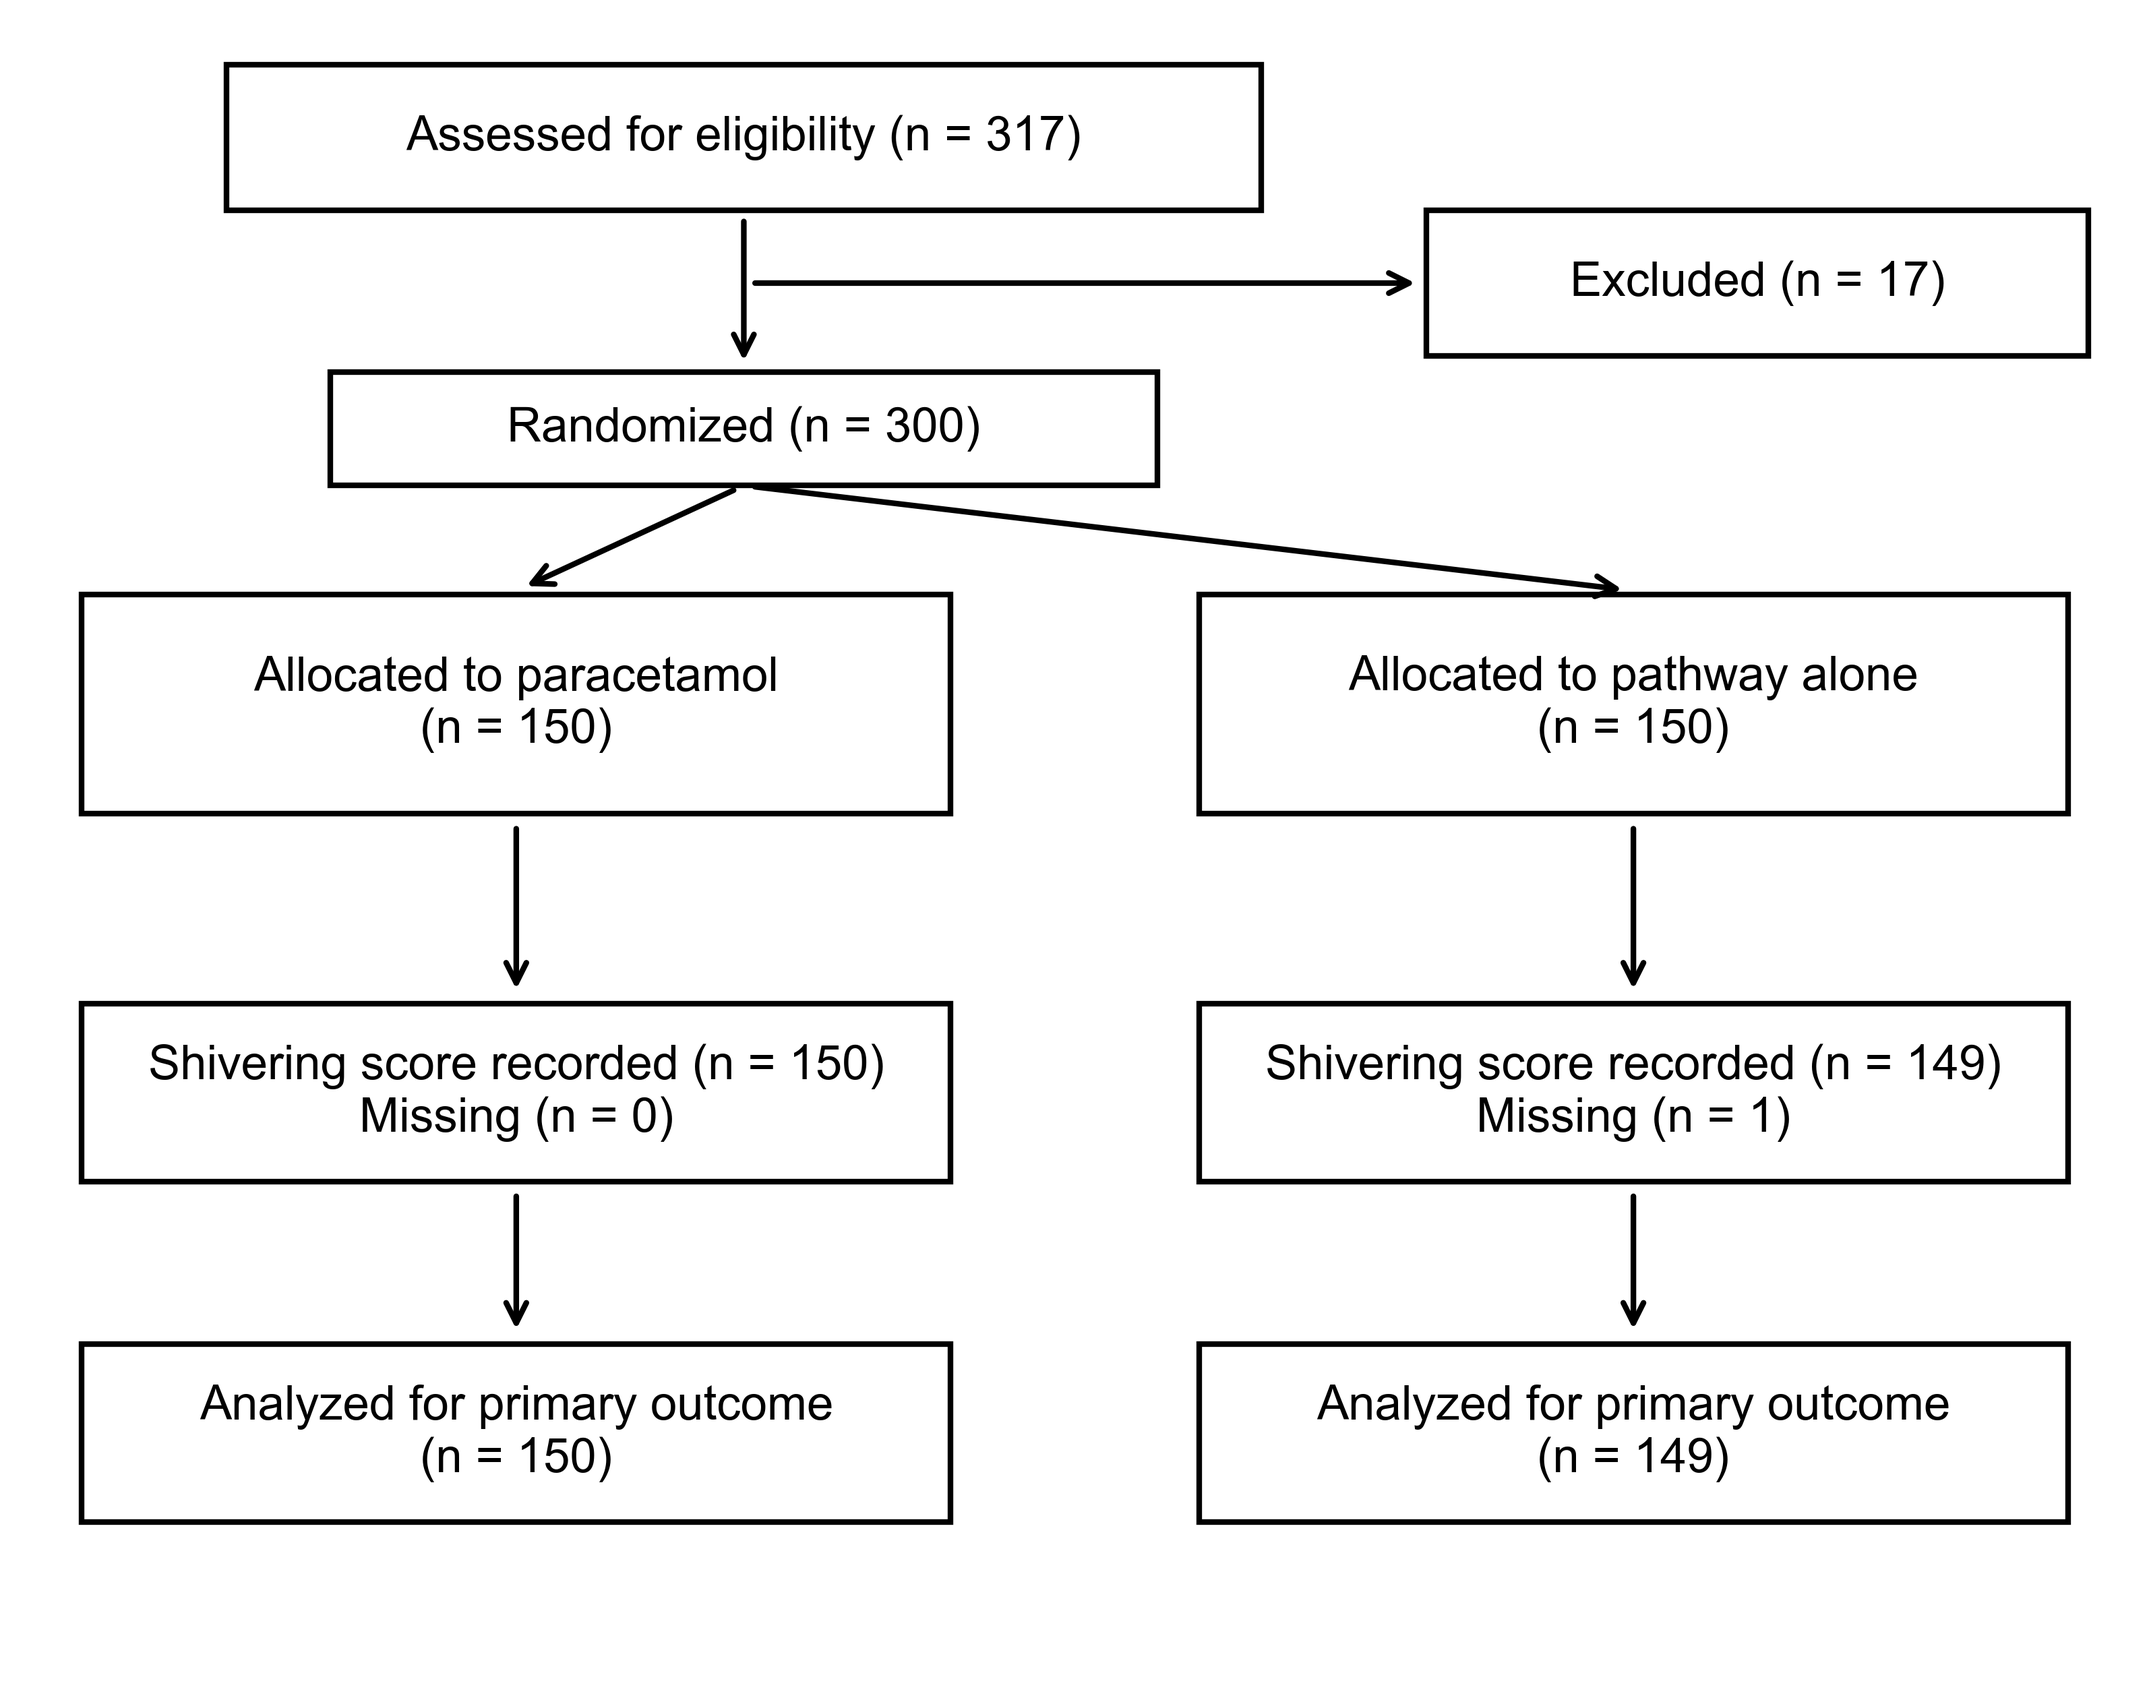
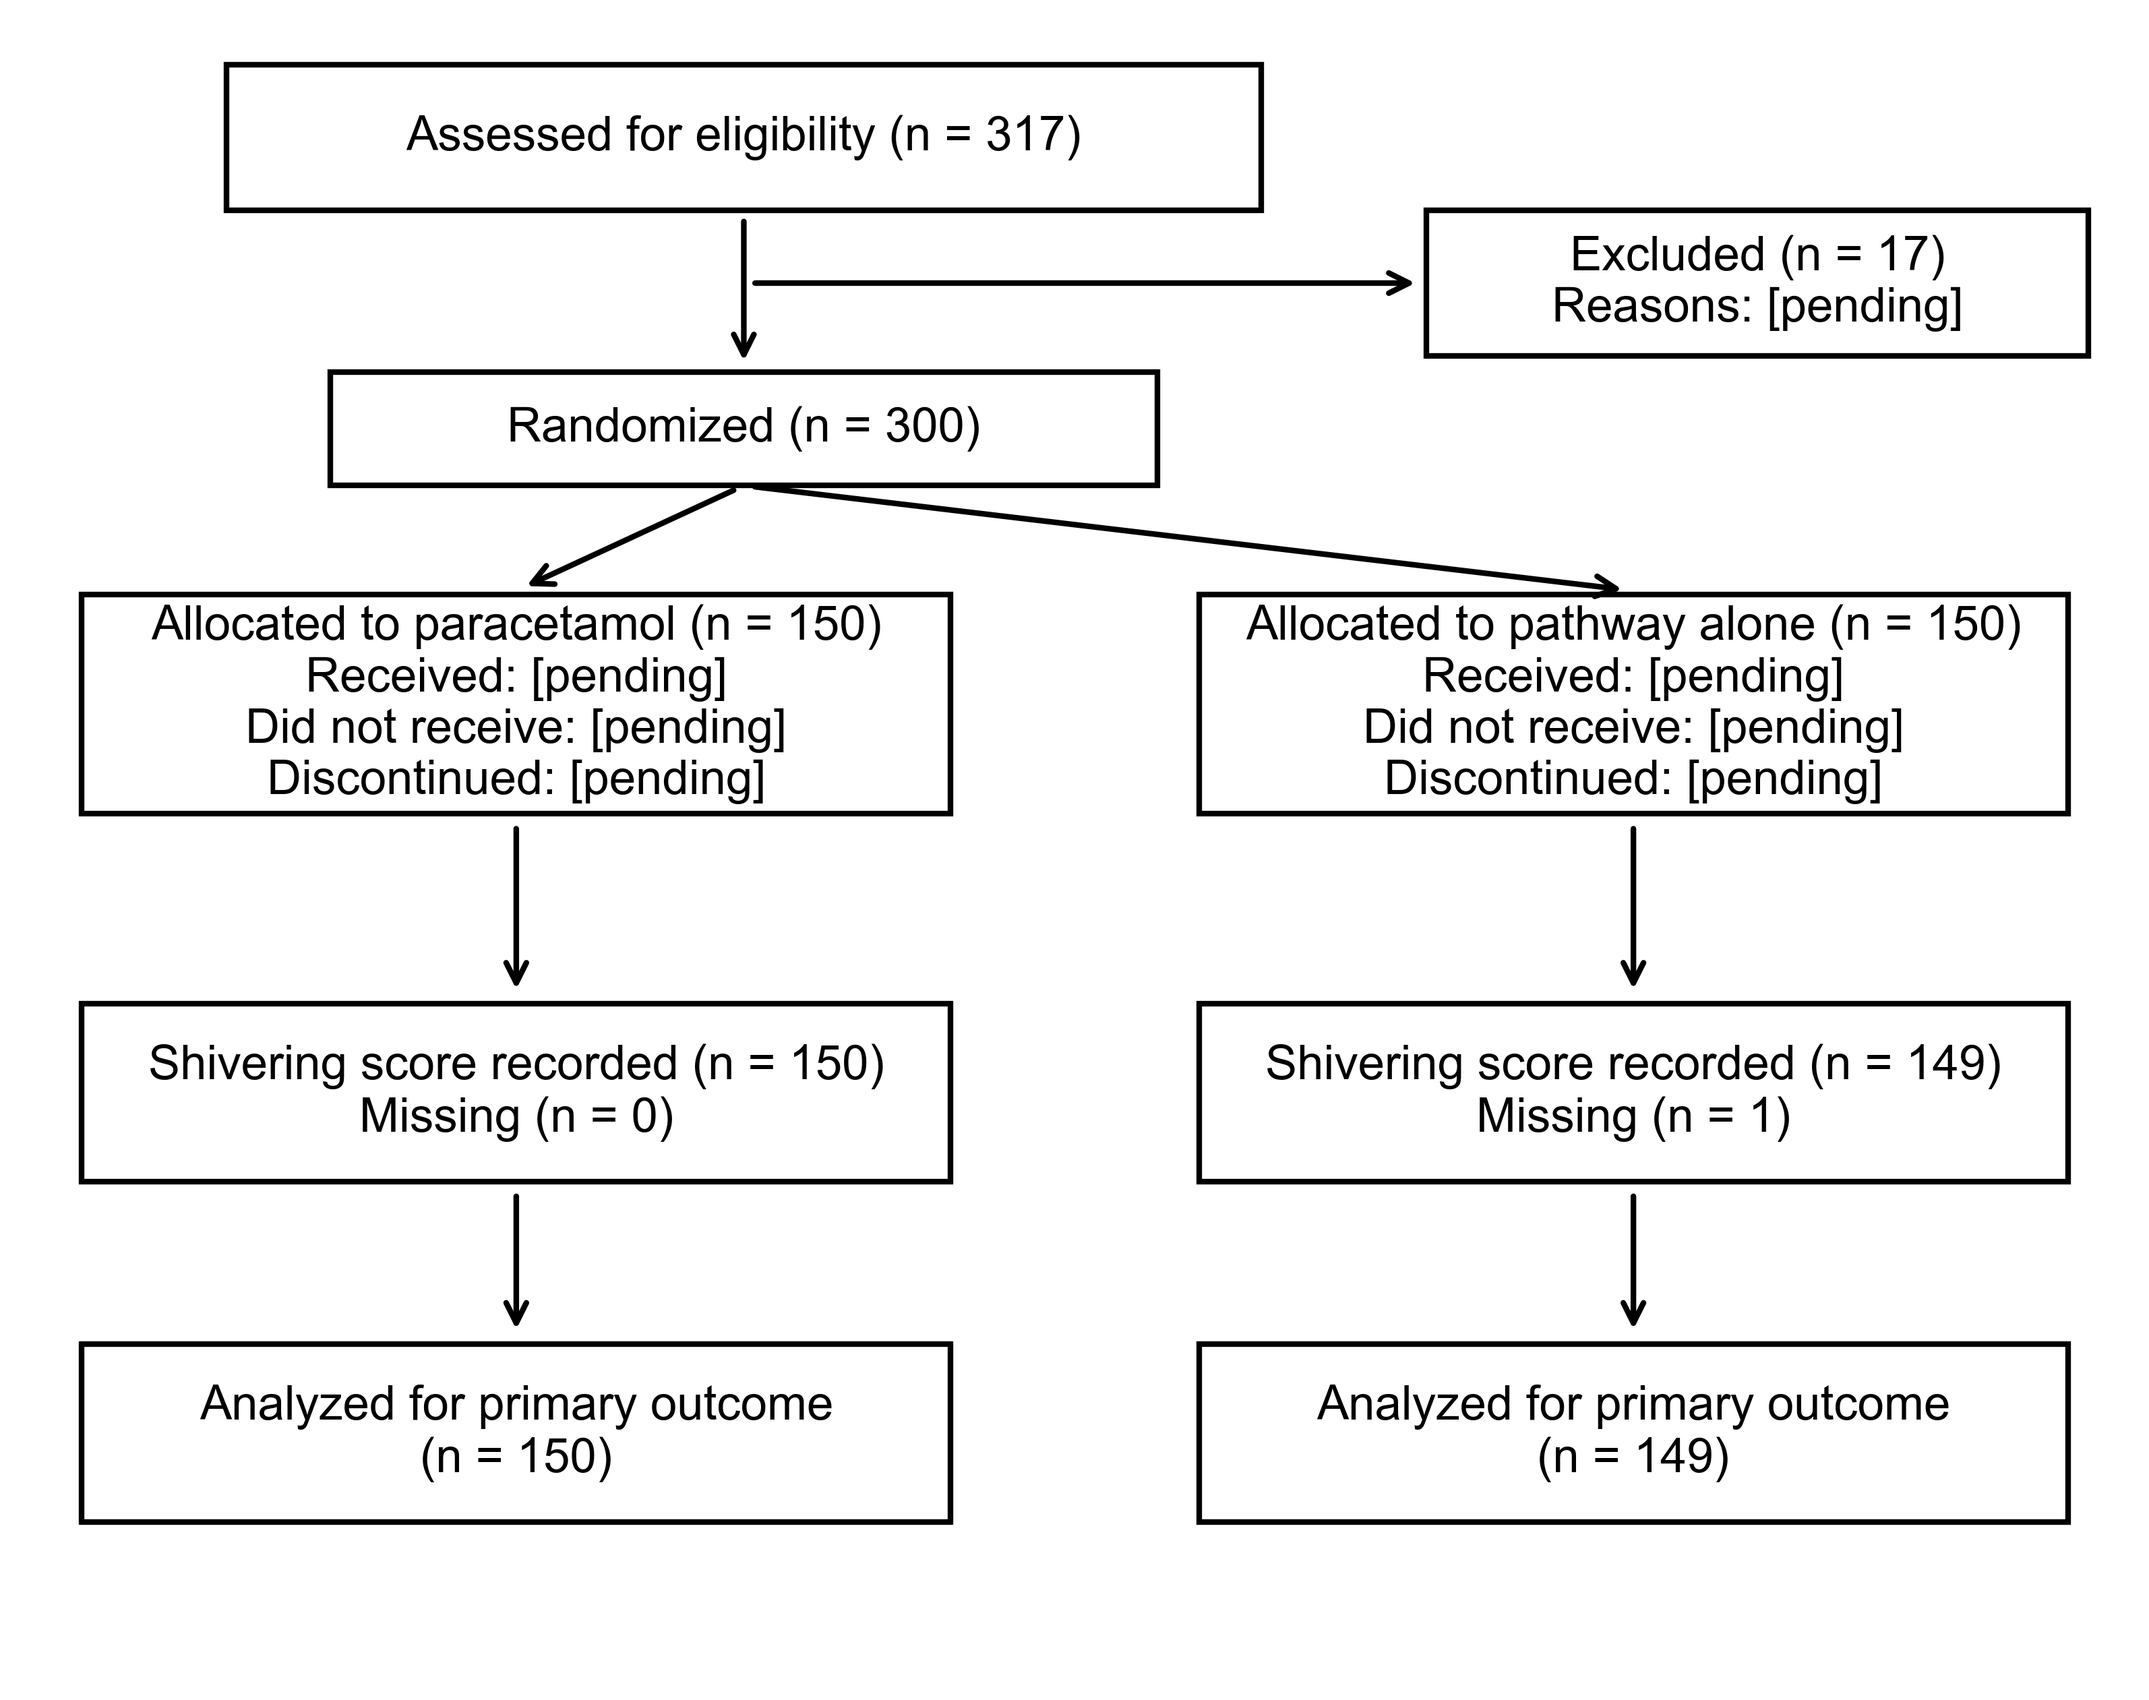
Align wording and flow diagram with the manuscript

diff --git a/README.md b/README.md
@@ -25,7 +25,7 @@ Background and objectives. Shivering is common during cesarean delivery under ne
 
 Methods. In this single-center, open-label, parallel-group trial, women scheduled for elective cesarean delivery under spinal anesthesia were randomized 1:1 to paracetamol 1 g before spinal anesthesia plus the institutional pathway, or to the pathway alone. The shivering assessor knew the allocation. The primary outcome was a highest recorded Wrench grade of 1 or more. Integrity screening of the dataset was added at revision. Registration was retrospective.
 
-Results. Of 300 women, 299 had a shivering score. Shivering was recorded in 11 of 150 (7.3%) with paracetamol and 57 of 149 (38.3%) in controls (risk ratio 0.19, 95% CI 0.10 to 0.35). Grades 1 and 4 never appeared. Of 300 women, 252 shared an identical series of systolic pressure, diastolic pressure or heart rate with another woman, far beyond autoregressive simulation. Hemodynamic outcomes were therefore not analyzed.
+Results. Of 300 women, 299 had a shivering score. Shivering was recorded in 11 of 150 (7.3%) with paracetamol and 57 of 149 (38.3%) in controls (risk ratio 0.19, 95% CI 0.10 to 0.35). No woman had grade 1 or 4 as the highest recorded grade. Of 300 women, 252 shared an identical series of systolic pressure, diastolic pressure or heart rate with another woman, far beyond autoregressive simulation. Hemodynamic outcome results are therefore not reported.
 
 Conclusions. Shivering was recorded less often with paracetamol. Unblinded assessment and unexplained repetition in the hemodynamic records mean that this difference does not establish efficacy or safety. Independent source verification and a blinded, prospectively registered trial are needed.
 
@@ -83,7 +83,7 @@ The assessor knew the allocation.
 
 ## Limitations
 
-Outcome assessment was unblinded and no placebo was used. Registration was retrospective. Some women did not meet eligibility criteria. The hemodynamic records failed integrity screening and no independent source verification has been performed. Participant level and hemodynamic outputs are withheld from this repository.
+Outcome assessment was unblinded and no placebo was used. Registration was retrospective. Some women did not meet eligibility criteria. The hemodynamic records failed integrity screening and no independent source verification has been performed. Participant level outputs and hemodynamic outcome results are withheld, while aggregate baseline values and integrity counts are retained.
 
 ## Software and reproducibility
 
